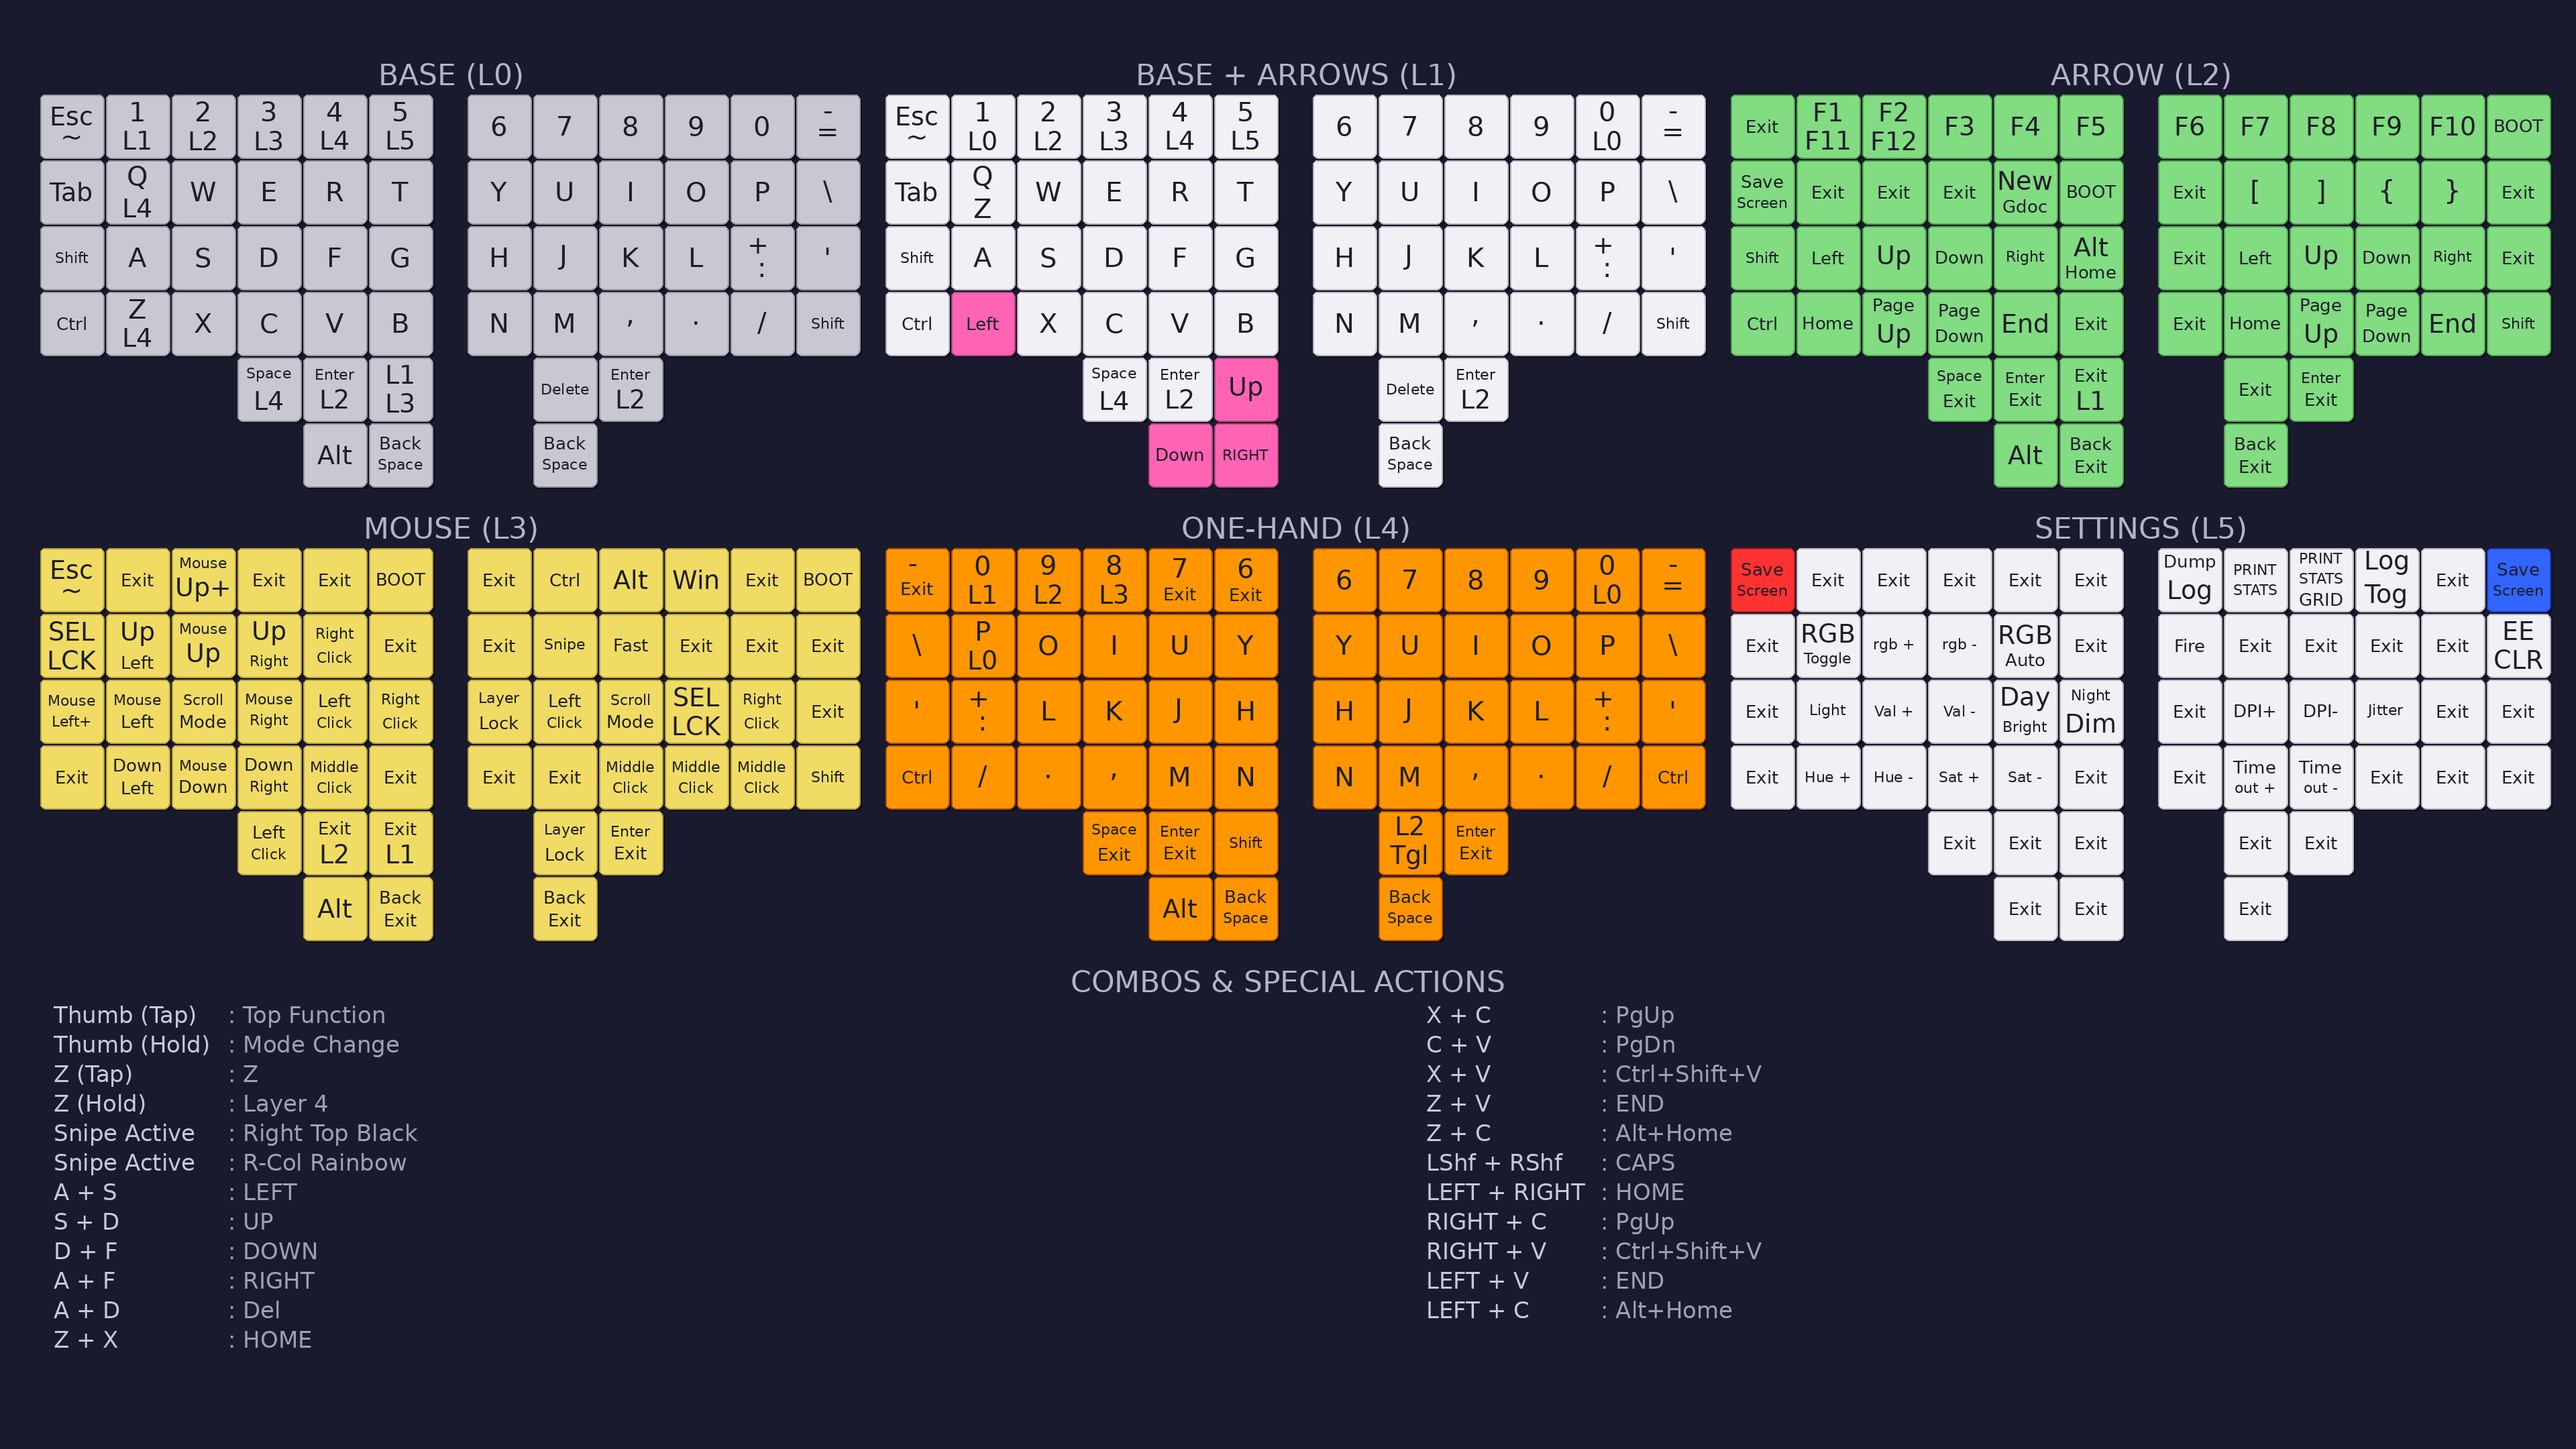
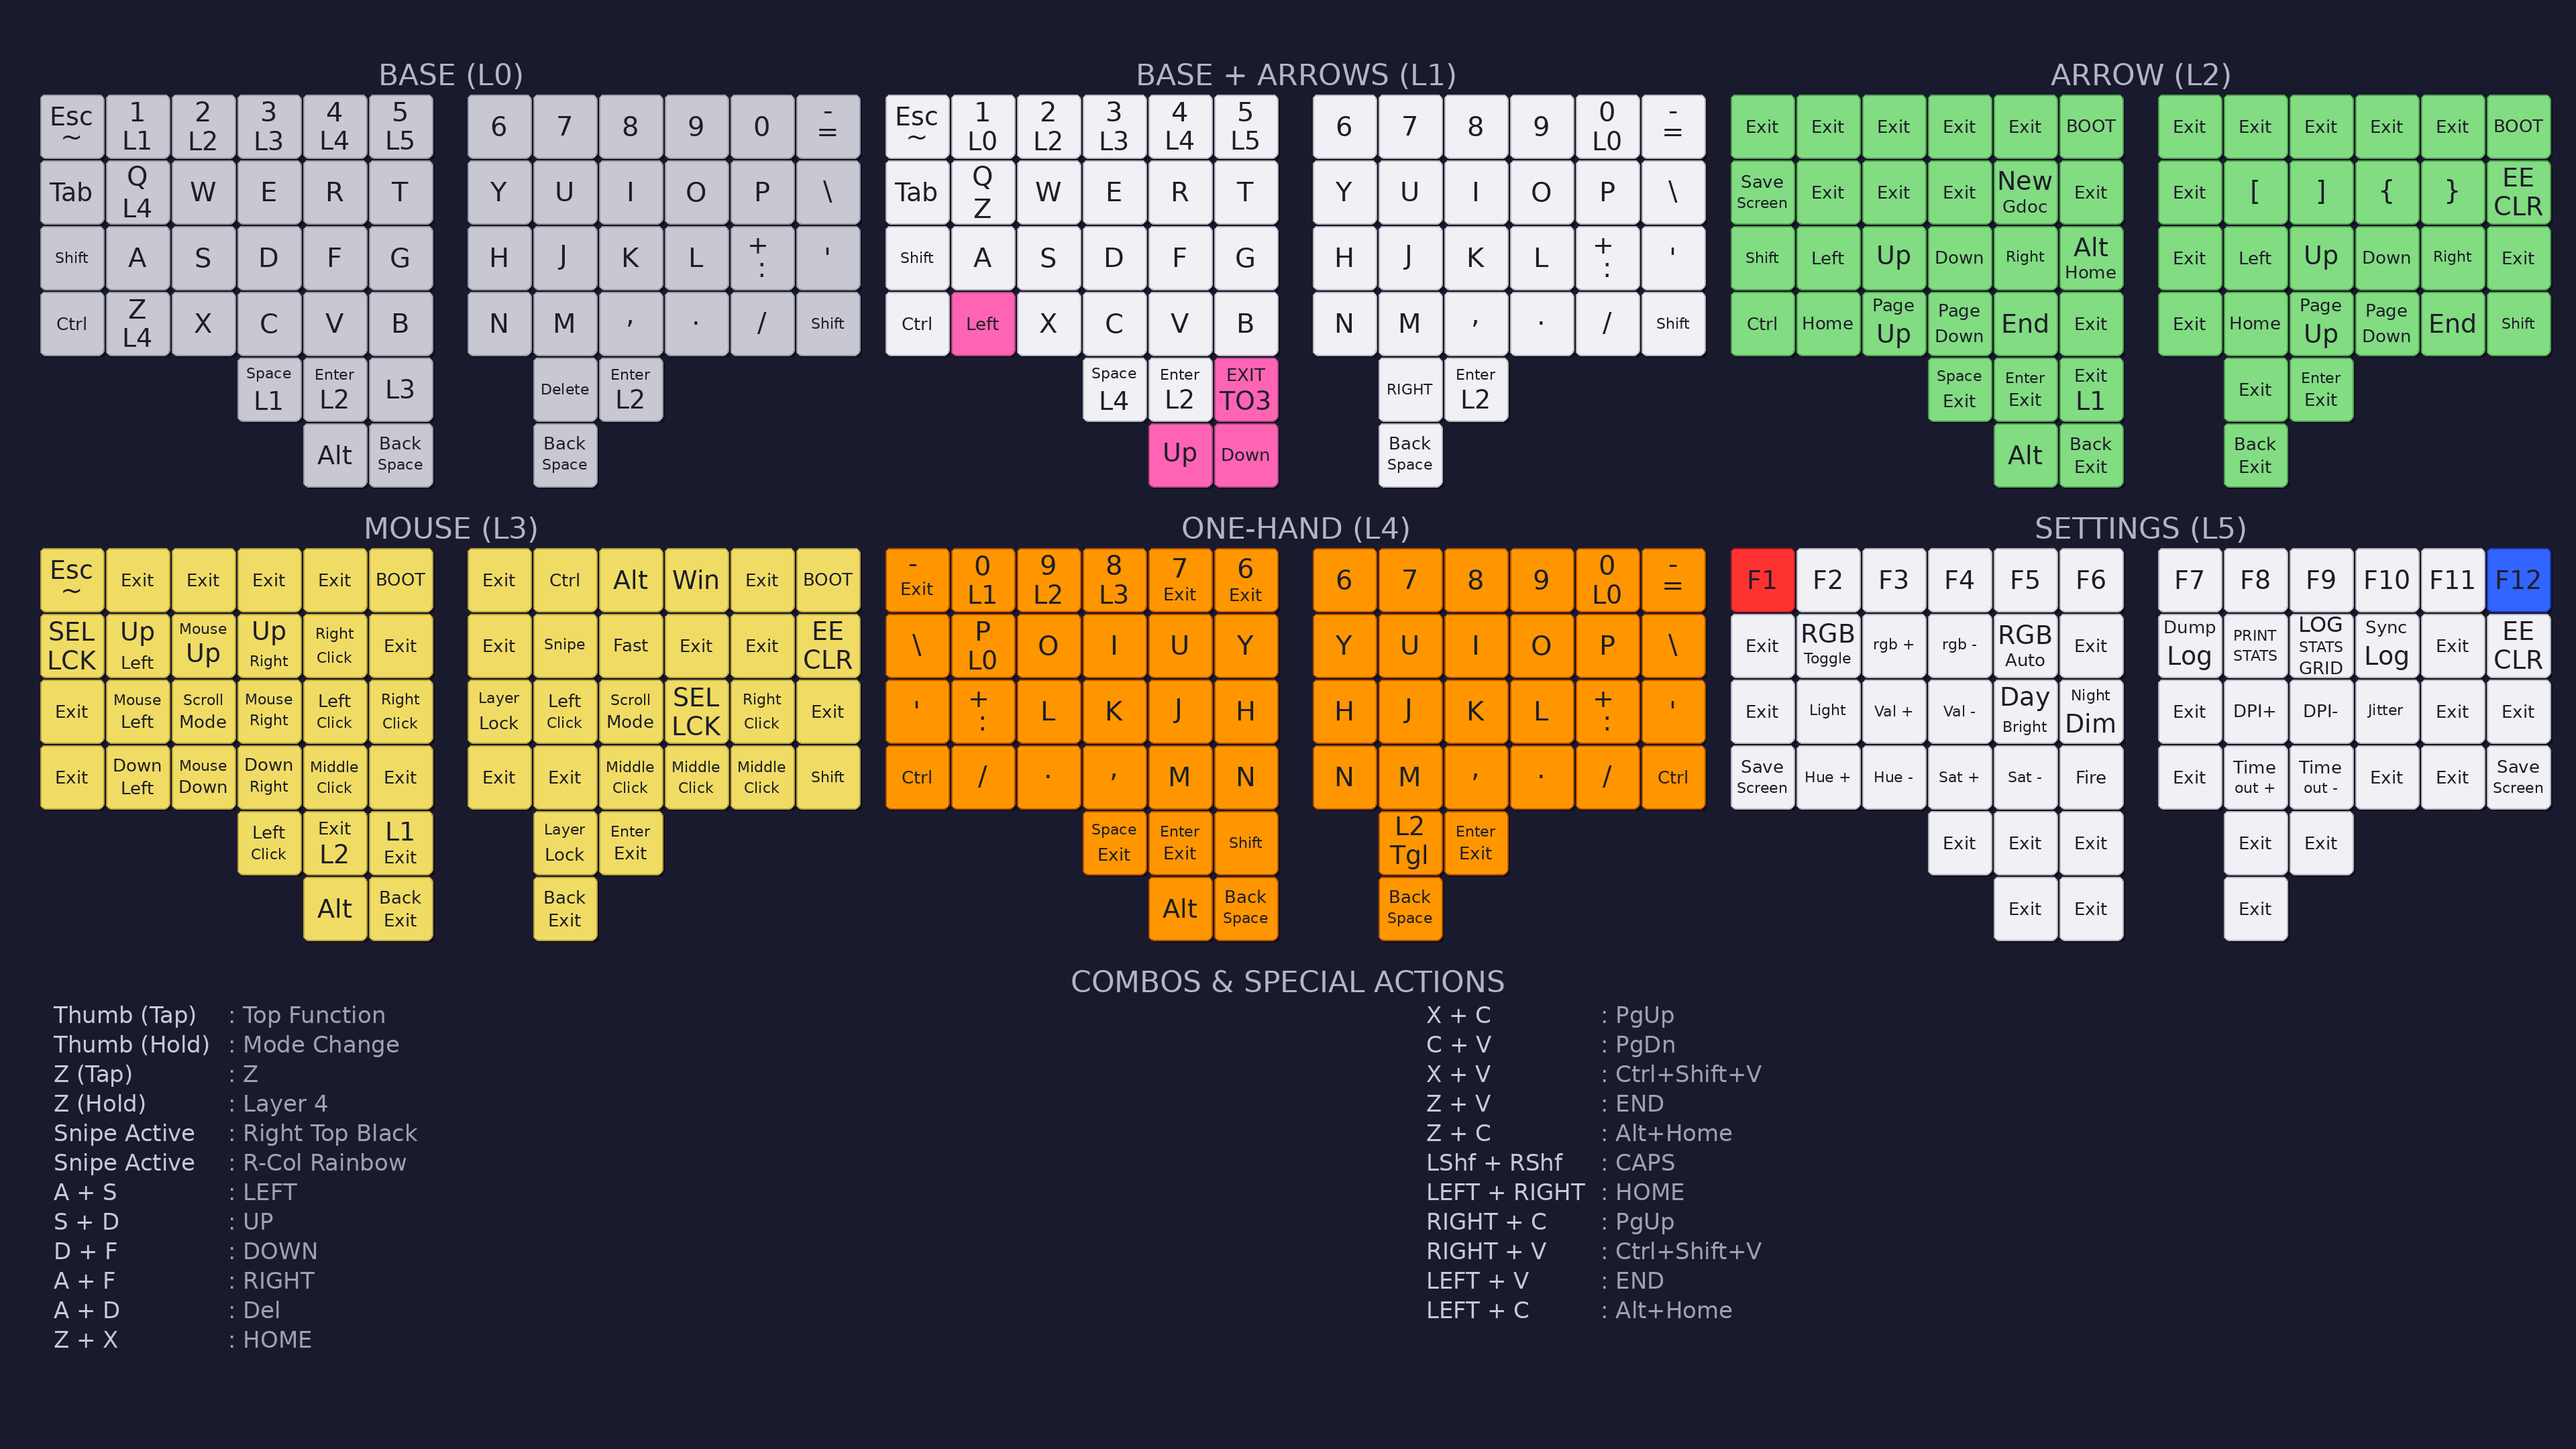
Update thumb keys and exit logic, add L_POP/MO support

diff --git a/keymap/keymap.c b/keymap/keymap.c
@@ -854,6 +854,7 @@ bool process_record_user(uint16_t keycode, keyrecord_t *record) {
   // Verbose thumb toggle keys with debug logging
   case KC_ENT_L2: return handle_thumb_toggle(TH_ENT_TG2, KC_ENT, "KC_ENT_L2", record->event.pressed);
   case KC_ENT_L4: return handle_thumb_toggle(TH_ENT_TG4, KC_ENT, "KC_ENT_L4", record->event.pressed);
+  case KC_SPC_L1: return handle_thumb_toggle(TH_SPC_TG1, KC_SPC, "KC_SPC_L1", record->event.pressed);
   case KC_SPC_L2: return handle_thumb_toggle(TH_SPC_TG2, KC_SPC, "KC_SPC_L2", record->event.pressed);
   case KC_SPC_L4: return handle_thumb_toggle(TH_SPC_TG4, KC_SPC, "KC_SPC_L4", record->event.pressed);
   // KC_PMNS_L4, KC_F12_EXIT now handled by simple tap-hold table lookup
@@ -1022,10 +1023,10 @@ bool process_record_user(uint16_t keycode, keyrecord_t *record) {
           rgb_matrix_indicators_user();
         }
         return false;  // Layer 3 Thumb Logic: Tap = Layer Change, Hold = Switch Layer
-  case KC_L3_EXT_TO4: return handle_l3_thumb(TH_L3_TO4, 0, 4, record->event.pressed);
-  case KC_L3_EXT_TO2: return handle_l3_thumb(TH_L3_TO2, 0, 2, record->event.pressed);
-  case KC_L3_EXT_TO1: return handle_l3_thumb(TH_L3_TO1, 1, LAYER_NONE, record->event.pressed);
-  case KC_EXIT_TO3: return handle_l3_thumb(TH_EXIT_TO3, 0, 3, record->event.pressed);
+  case KC_L3_EXIT_TO4: return handle_l3_thumb(TH_L3_TO4, L_POP, 4, record->event.pressed);
+  case KC_L3_EXIT_TO2: return handle_l3_thumb(TH_L3_TO2, L_POP, 2, record->event.pressed);
+  case KC_L3_TO1_EXIT: return handle_l3_thumb(TH_L3_TO1, 1, L_POP, record->event.pressed);
+  case KC_EXIT_TO3: return handle_l3_thumb(TH_EXIT_TO3, L_POP, 3, record->event.pressed);
 
 
 
@@ -1124,7 +1125,7 @@ const uint16_t PROGMEM keymaps[][MATRIX_ROWS][MATRIX_COLS] = {
                  KC_TAB , KC_Q_L4, KC_W    , KC_E    , KC_R    , KC_T    ,   KC_Y, KC_U, KC_I, KC_O, KC_P, KC_BSLS,
                  KC_LSFT, KC_A    , KC_S    , KC_D    , KC_F    , KC_G    ,   KC_H, KC_J, KC_K, KC_L, KC_PLUS_COLON, KC_QUOT,
                  KC_LCTL, TD(TD_Z_LAYER), KC_X, KC_C  , KC_V    , KC_B    ,   KC_N, KC_M, KC_COMM, KC_DOT, KC_SLSH, KC_RSFT,
-                                          KC_SPC_L4, KC_ENT_L2, KC_L1_L3,   KC_DEL, KC_ENT_L2,
+                                          KC_SPC_L1, KC_ENT_L2, MO(3),   KC_DEL, KC_ENT_L2,
                                                           KC_LALT, KC_BSPC,   KC_BSPC),
             // Layer 1: Right Arrows  
     [1] = LAYOUT(QK_GESC, KC_1_L1, KC_2_L2 , KC_3_L3, KC_4_L4, KC_5_L5,   KC_6, KC_7, KC_8, KC_9 , KC_0_TO0  , KC_MINS_EQL,
@@ -1144,7 +1145,7 @@ const uint16_t PROGMEM keymaps[][MATRIX_ROWS][MATRIX_COLS] = {
   KC_SEL_LOCK    , CM_MS_UL  , CM_MS_UP   , CM_MS_UR   , MS_BTN2, KC_EXIT,   KC_EXIT     , KC_SNIPE, KC_FAST, KC_EXIT, KC_EXIT, QK_CLEAR_EEPROM,
   KC_EXIT        , CM_MS_LEFT, SCROLL_MODE, CM_MS_RIGHT, MS_BTN1, MS_BTN2,   KC_MOUSE_LOCK, MS_BTN1, SCROLL_MODE, KC_SEL_LOCK, MS_BTN2, KC_EXIT,
   KC_EXIT        , CM_MS_DL  , CM_MS_DOWN , CM_MS_DR   , MS_BTN3, KC_EXIT,   KC_EXIT      , KC_EXIT , MS_BTN3   , MS_BTN3    , MS_BTN3, KC_RSFT,
-                                    MS_BTN1, KC_L3_EXT_TO2, KC_L3_EXT_TO1,   KC_MOUSE_LOCK, KC_ENT_EXIT,
+                                    MS_BTN1, KC_L3_EXIT_TO2, KC_L3_TO1_EXIT,   KC_MOUSE_LOCK, KC_ENT_EXIT,
                                                     KC_LALT, KC_BSPC_EXIT,   KC_BSPC_EXIT),
     // Layer 4: left hand layer                                                            
     [4] = LAYOUT(KC_MINS_TO0, KC_0_L1, KC_9_L2, KC_8_L3, KC_7_TO0, KC_6_TO0,   KC_6, KC_7, KC_8, KC_9, KC_0_TO0, KC_MINS_EQL,

diff --git a/keymap/features/tap_hold.c b/keymap/features/tap_hold.c
@@ -73,10 +73,14 @@ bool handle_l3_thumb(uint8_t th_idx, uint8_t tap_layer, uint8_t hold_layer, bool
         th[th_idx].held = false;
         if (timer_elapsed(th[th_idx].timer) < LONG_PRESS_TIMEOUT) {
             layer_change_reason = "L3 Thumb Tap";
-            layer_move(tap_layer);
+            if (tap_layer == L_POP) {
+                layer_history_pop();
+            } else {
+                layer_move(tap_layer);
+            }
         } else {
             layer_change_reason = "L3 Thumb Hold";
-            if (hold_layer == LAYER_NONE) {
+            if (hold_layer == L_POP) {
                 layer_history_pop();
             } else {
                 layer_move(hold_layer);
@@ -280,6 +284,19 @@ void housekeeping_tap_hold(void) {
       layer_move(4);
     }
     th[TH_ENT_TG4].triggered = true;
+    housekeeping_rgb_indicators();
+  }
+  if (th[TH_SPC_TG1].held && !th[TH_SPC_TG1].triggered &&
+      timer_elapsed(th[TH_SPC_TG1].timer) > LONG_PRESS_TIMEOUT) {
+    uprintf(">>> Thumb Hold Triggered: SPC_TG1 -> Toggle Layer 1\n");
+    if (get_highest_layer(layer_state) == 1) {
+      layer_change_reason = "SPC(Hold): Toggle L1 (OFF)";
+      layer_history_pop();
+    } else {
+      layer_change_reason = "SPC(Hold): Toggle L1 (ON)";
+      layer_move(1);
+    }
+    th[TH_SPC_TG1].triggered = true;
     housekeeping_rgb_indicators();
   }
   if (th[TH_SPC_TG2].held && !th[TH_SPC_TG2].triggered &&

diff --git a/scripts/layout_common.py b/scripts/layout_common.py
@@ -191,9 +191,9 @@ CUSTOM_KEY_MAP = {
     "KC_3_L3": "3\nL3",
     "KC_4_L4": "4\nL4",
     "KC_5_L5": "5\nL5",
-    "KC_L3_EXT_TO4": "Exit\nL4",
-    "KC_L3_EXT_TO2": "Exit\nL2",
-    "KC_L3_EXT_TO1": "Exit\nL1",
+    "KC_L3_EXIT_TO4": "Exit\nL4",
+    "KC_L3_EXIT_TO2": "Exit\nL2",
+    "KC_L3_TO1_EXIT": "L1\nExit",
     "RM_TOGG": "RGB\nToggle",
     "KC_JELLY": "Jelly",
     "KC_SPIRAL": "Spiral",
@@ -237,6 +237,8 @@ CUSTOM_KEY_MAP = {
     "KC_RIGHT_9": "Right\n9",
     "KC_SPC_L2": "Space\nL2",
     "KC_SPC_L4": "Space\nL4",
+    "KC_SPC_L1": "Space\nL1",
+    "KC_1_L1": "1\nL1",
     "KC_ENT_L2": "Enter\nL2",
     "KC_ENT_L4": "Enter\nL4",
     "KC_PMNS_L4": "Num -\nL4",
@@ -406,6 +408,12 @@ def simplify_key(key_code, layer_num=None):
         inner_key_code = f"KC_{key}"
         label = KEY_LABELS.get(inner_key_code, key)
         return f"{label}\nL{layer}"
+
+    # Handle MO(layer)
+    mo_match = re.match(r"MO\((\d+)\)", key_code)
+    if mo_match:
+        layer = mo_match.group(1)
+        return f"L{layer}"
 
     # Handle TD(...)
     td_match = re.match(r"TD\((\w+)\)", key_code)

diff --git a/keymap/features/keycodes.h b/keymap/features/keycodes.h
@@ -48,6 +48,7 @@ enum custom_keycodes {
   KC_6_TO0,
   KC_ENT_L2,
   KC_ENT_L4,
+  KC_SPC_L1,
   KC_SPC_L2,
   KC_SPC_L4,
   KC_PMNS_L4,
@@ -68,9 +69,9 @@ enum custom_keycodes {
   KC_NIGHT,          // Set brightness to Night level
   KC_FLASHLIGHT,     // Toggle Flashlight mode
   KC_SLSH_TO0,       // Tap: /, Hold: Temporary Layer 0
-  KC_L3_EXT_TO4,     // Layer 3 Left Thumb: Tap Exit, Hold TO(4)
-  KC_L3_EXT_TO2,     // Layer 3 Left Thumb: Tap Exit, Hold TO(2)
-  KC_L3_EXT_TO1,     // Layer 3 Left Thumb: Tap TO(1), Hold TO(6)
+  KC_L3_EXIT_TO4,    // Layer 3 Left Thumb: Tap Exit, Hold TO(4)
+  KC_L3_EXIT_TO2,    // Layer 3 Left Thumb: Tap Exit, Hold TO(2)
+  KC_L3_TO1_EXIT,    // Layer 3 Left Thumb: Tap TO(1), Hold Exit
   KC_EXIT_TO3,       // Layer 1 Left Thumb: Tap Exit, Hold TO(3)
   KC_PRINT_STATS,    // Print statistics histogram immediately
   KC_LOG_STATS_GRID, // Print statistics in a 2D grid format

diff --git a/keymap/features/tap_hold.h b/keymap/features/tap_hold.h
@@ -2,7 +2,7 @@
 
 #include QMK_KEYBOARD_H
 
-#define LAYER_NONE 255
+#define L_POP 255
 
 // Index enum for tap_hold array
  enum tap_hold_idx {
@@ -10,7 +10,7 @@
     TH_PGUP, TH_P, TH_SLSH, TH_HOME, TH_ENT_MO,
     TH_K1, TH_K2, TH_K3, TH_K4, TH_K5,
     TH_MINS, TH_K0, TH_K9, TH_K8, TH_K7, TH_K6,
-    TH_ENT_TG4, TH_ENT_TG2, TH_SPC_TG2, TH_SPC_TG4, TH_PMNS_TG4,
+    TH_ENT_TG4, TH_ENT_TG2, TH_SPC_TG1, TH_SPC_TG2, TH_SPC_TG4, TH_PMNS_TG4,
     TH_F12,
     TH_L3_TO4, TH_L3_TO2, TH_L3_TO1,
     TH_EXIT_TO3,

diff --git a/GEMINI.md b/GEMINI.md
@@ -20,13 +20,6 @@ qmk compile -kb bastardkb/charybdis/4x6/elitec -km dcar -e CONVERT_TO=elite_pi
 ```
 *Output:* `qmk_firmware/bastardkb_charybdis_4x6_elitec_dcar_elite_pi.uf2`
 
-### Flash Firmware
-**IMPORTANT:** You must flash **BOTH** halves for split RGB to work correctly.
-
-1.  **Right Half (Master):** Put in bootloader mode (double-tap reset). Copy `.uf2` to the mounted drive.
-2.  **Left Half (Slave):** Disconnect TRRS. Put in bootloader mode. Copy the **SAME** `.uf2` file.
-3.  **Reconnect:** Reconnect TRRS cable, then plug USB into the right half.
-
 ### Diagnostics
 View real-time logs:
 ```bash
@@ -36,8 +29,8 @@ qmk console
 ### Documentation Generation
 Update the PDF layout and wallpaper after modifying `keymap.c`:
 ```bash
-python3 generate_layout_pdf.py
-python3 wallpaper.py
+python3 scripts/generate_layout_pdf.py
+python3 scripts/wallpaper.py
 ```
 
 ## Development Conventions

diff --git a/AGENTS.md b/AGENTS.md
@@ -21,13 +21,14 @@ python3 scripts/generate_layout_pdf.py && python3 scripts/generate_wallpaper.py
 **Flashing Firmware**: Flash BOTH controllers for split RGB to work
 1. Right side (master): double-tap reset, copy UF2 to `/media/$USER/RPI-RP2/`
 2. Left side (slave): disconnect TRRS, hold BOOT while plugging USB, copy same UF2
-3. Reconnect TRRS cable
 
 **Testing**: No unit tests - verify via `qmk console` with `LOG_TIME(); uprintf("Event\n");`
 
 Python deps: `pip install pillow reportlab`
 
 ## Code Style Guidelines
+
+**CRITICAL**: Do NOT reformat existing code - preserve the original formatting and structure
 
 ### C Code (keymap.c, features/*)
 - **Indentation**: 4 spaces (from .clang-format), NOT 2 spaces
